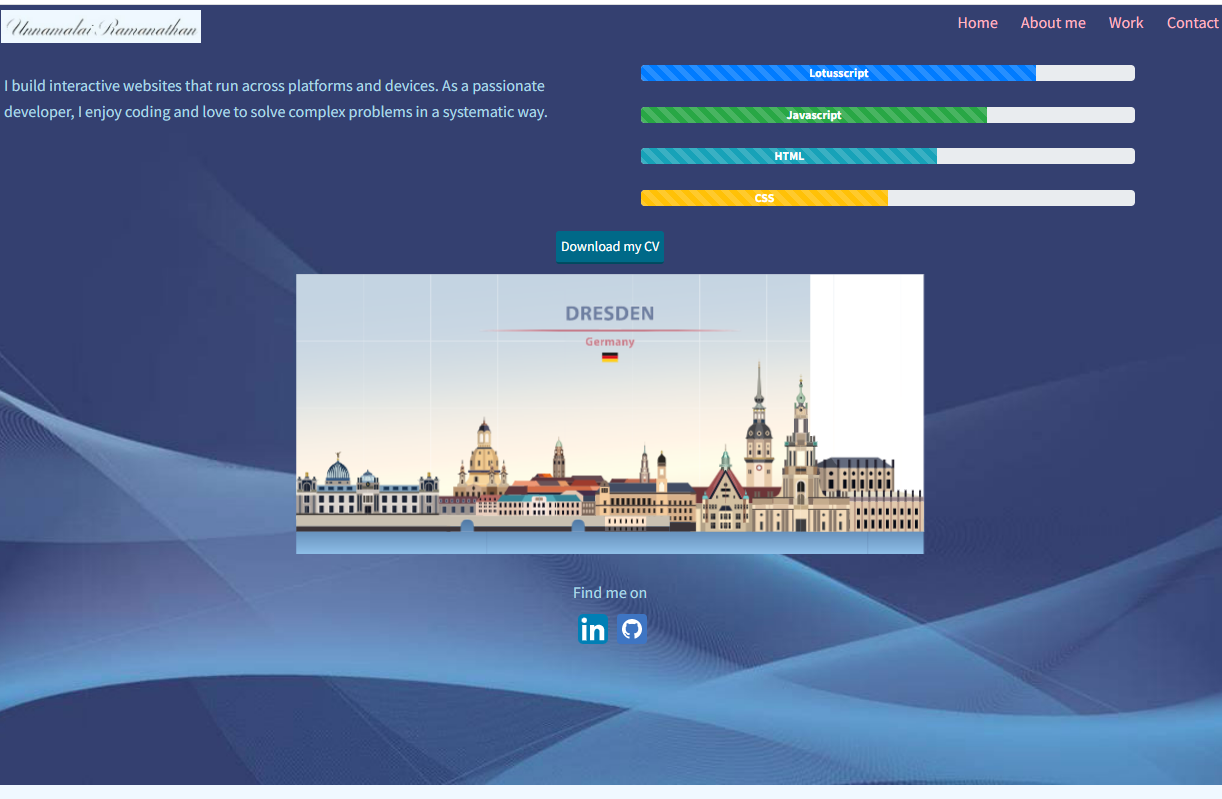
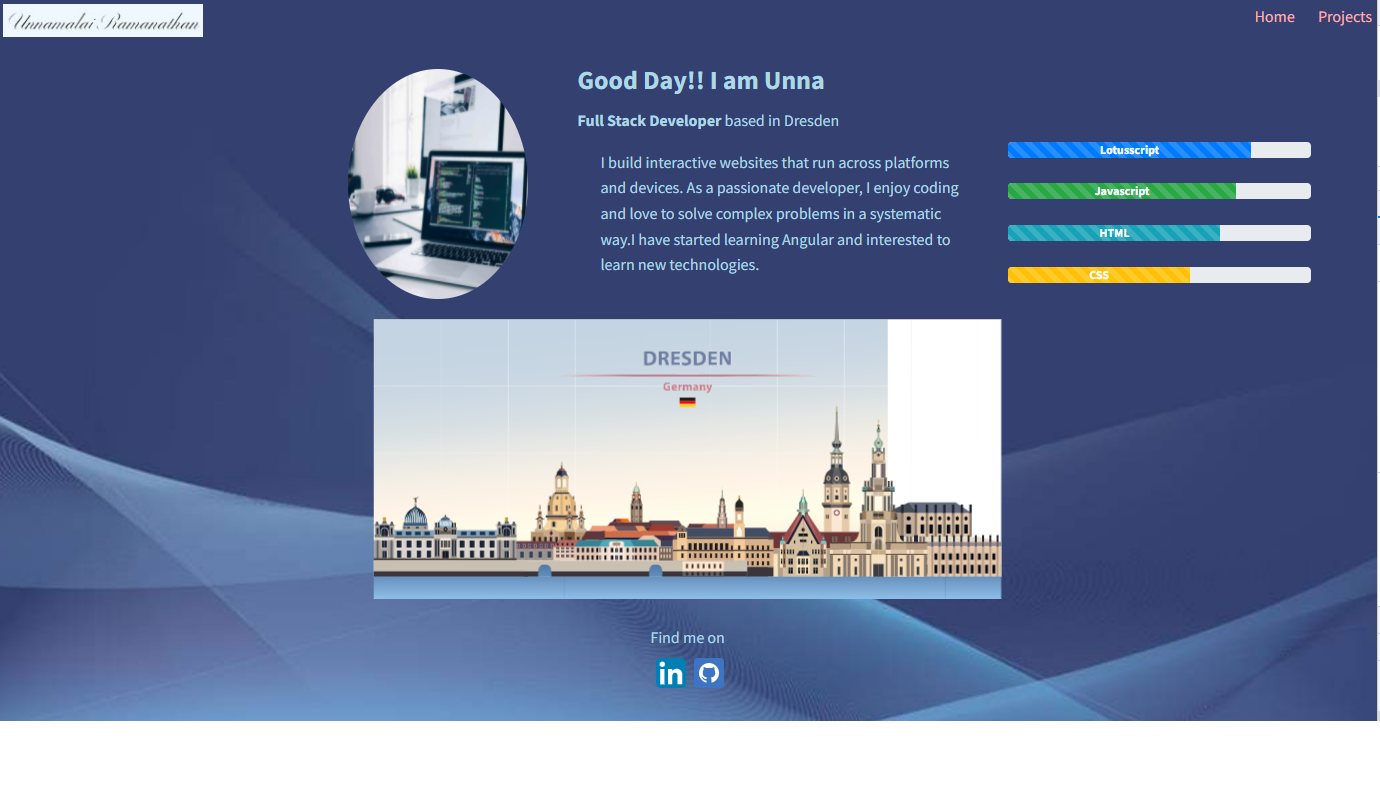
updated index page

diff --git a/index.html b/index.html
@@ -84,7 +84,8 @@
       <p class="col-sm-6">
         I build interactive websites that run across platforms and devices. As a
         passionate developer, I enjoy coding and love to solve complex problems
-        in a systematic way.
+        in a systematic way.I have started learning Angular and interested to
+        learn new technologies.
       </p>
       <div class="col-sm-5">
         <div class="progress">
@@ -99,7 +100,7 @@
         <div class="progress">
           <div
             class="progress-bar bg-success progress-bar-striped"
-            style="width:70%; font-weight: bold"
+            style="width:75%; font-weight: bold"
           >
             Javascript
           </div>
@@ -108,7 +109,7 @@
         <div class="progress">
           <div
             class="progress-bar bg-info progress-bar-striped"
-            style="width:60%; font-weight: bold"
+            style="width:70%; font-weight: bold"
           >
             HTML
           </div>
@@ -117,7 +118,7 @@
         <div class="progress">
           <div
             class="progress-bar bg-warning progress-bar-striped"
-            style="width:50%; font-weight: bold"
+            style="width:60%; font-weight: bold"
           >
             CSS
           </div>

diff --git a/css/style.css b/css/style.css
@@ -4,10 +4,10 @@
   --bg-color: #f0f8ff;
   --homefont-color: #add8e6;
   --framefont-color: #00008b;
-  --anchor-normal: #ffb6c1;
-  --anchor-visited: #ffb6c1;
+  --anchor-normal: #ffaeae;
+  --anchor-visited: #ffaeae;
   --anchor-hover: #fff;
-  --anchor-active: #ffc0cb;
+  --anchor-active: #ffaeae;
   --btn-bgcolor: #006988;
   --btn-fontcolor: #fff;
   --frame-bgcolor: #f8f8ff;
